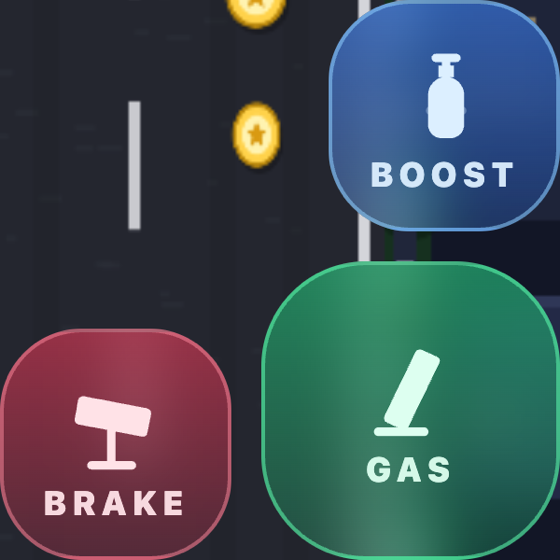
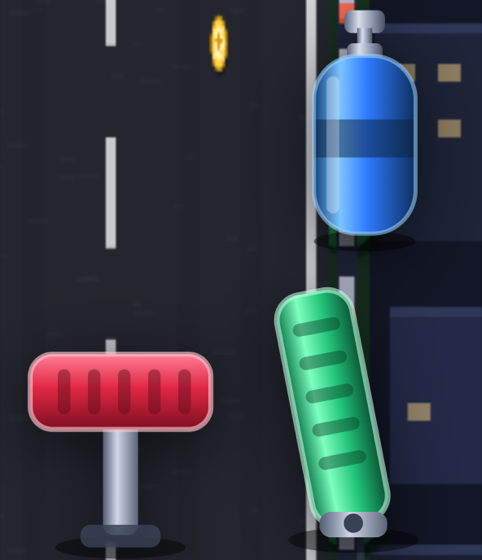
Drop the button boxes so the pedal itself is the control
The gas, brake and boost controls were icons sitting inside tinted
rounded boxes, which read as UI tiles rather than car parts. Remove the
boxes entirely and draw the parts themselves, so pressing one feels like
pressing the real thing:

- accelerator  ribbed treadle on a hinge pin, leaning back at rest
- brake        ribbed rubber pad on a chrome arm and floor plate
- boost        nitrous bottle with valve, neck and label band

Each is built from gradients and a contact shadow rather than a flat
fill, and the labels are gone — the shapes carry the meaning now, and
the menu already lists what the controls are. Steering keeps its frame,
since an arrow is a UI symbol rather than a physical part.

Pressing moves each part the way the real one moves: the accelerator
flattens on its hinge, the brake pad sinks, the bottle scales in, with a
coloured glow for confirmation at a glance.

Two things fixed along the way. The resting lean now lives in CSS rather
than on the SVG element, because a CSS transform replaces the element's
transform attribute outright and the pedal jumped to a different pivot
the moment it was pressed. The accelerator's viewBox was also too narrow
for its lean, leaving the art 6px from the screen edge; it now leans
inward with 42px of clearance.

Boost widths raised at the two small-screen breakpoints so every touch
target stays at or above 44px — it was 42px at 320px wide. Verified on
iPhone 13, iPhone SE (320px), Pixel 7 and iPad: no overflow, all
[…]

diff --git a/src/style.css b/src/style.css
@@ -180,10 +180,13 @@ html, body {
    without the hand moving. Boost already forces acceleration on its own, so a
    single thumb never needs to hold two pedals at once. */
 #touch-controls {
-  --tc-dir: 76px;   /* steering buttons */
-  --tc-gas: 92px;   /* primary pedal, thumb rests here */
-  --tc-aux: 70px;   /* brake and boost */
-  --tc-gap: 10px;
+  --tc-dir: 76px;     /* steering buttons */
+  --tc-gas-w: 84px;   /* accelerator: tall treadle, thumb rests here */
+  --tc-gas-h: 104px;
+  --tc-brake-w: 84px; /* brake: wide pad */
+  --tc-brake-h: 84px;
+  --tc-boost-w: 54px; /* nitrous bottle */
+  --tc-boost-h: 90px;
 
   position: absolute;
   left: 0; right: 0;
@@ -201,98 +204,83 @@ html, body {
 
 .tc-pedals {
   display: grid;
-  grid-template-columns: var(--tc-aux) var(--tc-gas);
-  grid-template-rows: var(--tc-aux) var(--tc-gas);
-  gap: var(--tc-gap);
+  grid-template-columns: var(--tc-brake-w) var(--tc-gas-w);
+  grid-template-rows: var(--tc-boost-h) var(--tc-gas-h);
+  column-gap: 2px;
+  row-gap: 2px;
   align-items: end;
-  justify-items: end;
+  justify-items: center;
 }
 .tc-boost { grid-area: 1 / 2; }
 .tc-brake { grid-area: 2 / 1; }
 .tc-gas   { grid-area: 2 / 2; }
 
+/* Steering keeps a light frame so it reads as a control surface. The pedals
+   deliberately have none — the part itself is the button. */
 .tc {
   pointer-events: auto;
   appearance: none;
-  border: 1px solid rgba(255, 255, 255, 0.22);
-  background: rgba(14, 18, 38, 0.52);
-  backdrop-filter: blur(8px);
+  border: none;
+  background: none;
   color: var(--ink);
   font: inherit;
-  font-weight: 900;
   cursor: pointer;
   display: flex;
-  flex-direction: column;
   align-items: center;
   justify-content: center;
-  gap: 1px;
   padding: 0;
-  transition: transform 0.08s ease, background 0.08s ease, box-shadow 0.08s ease;
   touch-action: none;
 }
-.tc span { font-size: 10px; letter-spacing: 1.2px; line-height: 1; opacity: 0.95; }
-.tc svg {
-  width: 33px; height: 33px;
+
+.tc-dir {
+  width: var(--tc-dir); height: var(--tc-dir);
+  border-radius: 24px;
+  border: 1px solid rgba(255, 255, 255, 0.2);
+  background: rgba(14, 18, 38, 0.5);
+  backdrop-filter: blur(8px);
+  transition: transform 0.08s ease, background 0.08s ease;
+}
+.tc-dir svg {
+  width: 38px; height: 38px;
   fill: none; stroke: currentColor;
-  stroke-width: 2.4; stroke-linecap: round; stroke-linejoin: round;
+  stroke-width: 2.8; stroke-linecap: round; stroke-linejoin: round;
 }
-/* Icon parts: solid pads/bodies read as real objects at thumb size, thin
-   strokes carry the hinge, arm and floor that identify each pedal. */
-.tc svg .ic-solid { fill: currentColor; stroke: none; }
-.tc svg .ic-line { fill: none; stroke: currentColor; stroke-width: 1.9; }
-/* Filled pad with a matching stroke, so the corners round off naturally */
-.tc svg .ic-pad { fill: currentColor; stroke: currentColor; stroke-width: 2.1; stroke-linejoin: round; }
-/* Cut-through band on the nitrous bottle — punched out in the button colour */
-.tc svg .ic-cut { fill: none; stroke: currentColor; stroke-width: 1.8; opacity: 0.32; }
+.tc-dir.active { transform: scale(0.93); background: rgba(255, 255, 255, 0.3); }
 
-/* Steering */
-.tc-dir { width: var(--tc-dir); height: var(--tc-dir); border-radius: 24px; }
-.tc-dir svg { width: 38px; height: 38px; stroke-width: 2.8; }
+/* ---- Pedals ---- */
+.tc-gas   { width: var(--tc-gas-w);   height: var(--tc-gas-h); }
+.tc-brake { width: var(--tc-brake-w); height: var(--tc-brake-h); align-items: flex-end; }
+.tc-boost { width: var(--tc-boost-w); height: var(--tc-boost-h); }
 
-/* Pedals — each colour-coded to what it does */
-.tc-gas {
-  width: var(--tc-gas); height: var(--tc-gas);
-  border-radius: 28px;
-  background: linear-gradient(180deg, rgba(34, 195, 122, 0.6), rgba(34, 195, 122, 0.26));
-  border-color: rgba(94, 255, 176, 0.55);
-  color: #ddfff0;
-}
-.tc-gas svg { width: 38px; height: 38px; }
-
-.tc-brake {
-  width: var(--tc-aux); height: var(--tc-aux);
-  border-radius: 22px;
-  background: linear-gradient(180deg, rgba(255, 59, 92, 0.52), rgba(255, 59, 92, 0.22));
-  border-color: rgba(255, 138, 158, 0.5);
-  color: #ffe2e7;
+.tc-gas svg, .tc-brake svg, .tc-boost svg {
+  width: 100%; height: 100%;
+  overflow: visible;
+  /* Grounds the part against the road without drawing a container */
+  filter: drop-shadow(0 4px 10px rgba(0, 0, 0, 0.6));
+  transition: filter 0.09s ease;
 }
 
-.tc-boost {
-  width: var(--tc-aux); height: var(--tc-aux);
-  border-radius: 22px;
-  background: linear-gradient(180deg, rgba(47, 123, 255, 0.55), rgba(47, 123, 255, 0.24));
-  border-color: rgba(143, 208, 255, 0.55);
-  color: #dcefff;
-}
+/* The contact shadow on the floor, drawn inside each SVG */
+.pd-shadow { fill: #000; opacity: 0.45; }
 
-/* Pressed states */
-.tc.active { transform: scale(0.93); }
-.tc-dir.active { background: rgba(255, 255, 255, 0.3); }
-.tc-gas.active {
-  background: linear-gradient(180deg, #5effb0, #22c37a);
-  color: #04291a;
-  box-shadow: 0 0 22px rgba(94, 255, 176, 0.5);
-}
-.tc-brake.active {
-  background: linear-gradient(180deg, #ff8a9e, #ff3b5c);
-  color: #2b0410;
-  box-shadow: 0 0 22px rgba(255, 90, 120, 0.5);
-}
-.tc-boost.active {
-  background: linear-gradient(180deg, #8fd0ff, #2f7bff);
-  color: #041024;
-  box-shadow: 0 0 22px rgba(120, 190, 255, 0.55);
-}
+/* The pedal's resting lean lives here rather than on the SVG element, because
+   a CSS transform replaces the element's transform attribute outright — mixing
+   the two makes the pedal jump to a different pivot the moment it is pressed.
+   Pressing then flattens the lean, the way a real accelerator goes down. */
+.pd-pad { transition: transform 0.09s ease; }
+
+.tc-gas .pd-pad { transform: rotate(-11deg); transform-origin: 45% 88%; }
+.tc-gas.active .pd-pad { transform: rotate(-3.5deg) translateY(2px) scaleY(0.97); }
+
+.tc-brake .pd-pad { transform-origin: 50% 100%; }
+.tc-brake.active .pd-pad { transform: translateY(7px) scaleY(0.94); }
+
+.tc-boost svg { transition: transform 0.09s ease, filter 0.09s ease; }
+.tc-boost.active svg { transform: scale(0.95); }
+
+.tc-gas.active svg   { filter: drop-shadow(0 2px 5px rgba(0, 0, 0, 0.65)) drop-shadow(0 0 16px rgba(94, 255, 176, 0.85)); }
+.tc-brake.active svg { filter: drop-shadow(0 2px 5px rgba(0, 0, 0, 0.65)) drop-shadow(0 0 16px rgba(255, 90, 120, 0.85)); }
+.tc-boost.active svg { filter: drop-shadow(0 2px 5px rgba(0, 0, 0, 0.65)) drop-shadow(0 0 18px rgba(120, 190, 255, 0.9)); }
 
 /* ---------- Pause button ---------- */
 .icon-btn {
@@ -315,20 +303,27 @@ html, body {
 
 /* ---------- Small screens / landscape ---------- */
 @media (max-width: 400px) {
-  #touch-controls { --tc-dir: 66px; --tc-gas: 80px; --tc-aux: 62px; --tc-gap: 8px; }
+  #touch-controls {
+    --tc-dir: 66px;
+    --tc-gas-w: 72px; --tc-gas-h: 92px;
+    --tc-brake-w: 74px; --tc-brake-h: 74px;
+    --tc-boost-w: 52px; --tc-boost-h: 78px;
+  }
   .tc-steer { gap: 9px; }
-  .tc svg { width: 29px; height: 29px; }
   .tc-dir svg { width: 32px; height: 32px; }
-  .tc span { font-size: 9px; }
 }
 
 @media (max-width: 340px) {
   .panel { padding: 20px 16px; gap: 11px; }
-  #touch-controls { --tc-dir: 58px; --tc-gas: 70px; --tc-aux: 55px; --tc-gap: 7px; padding: 0 8px; }
+  #touch-controls {
+    --tc-dir: 58px;
+    --tc-gas-w: 62px; --tc-gas-h: 80px;
+    --tc-brake-w: 64px; --tc-brake-h: 66px;
+    --tc-boost-w: 48px; --tc-boost-h: 70px;
+    padding: 0 8px;
+  }
   .tc-steer { gap: 7px; }
-  .tc svg { width: 25px; height: 25px; }
   .tc-dir svg { width: 28px; height: 28px; }
-  .tc span { font-size: 8px; letter-spacing: 0.6px; }
   .sb-value { font-size: 36px; }
 }
 
@@ -342,6 +337,11 @@ html, body {
   .btn { padding: 11px 16px; min-height: 42px; }
   .btn-primary { font-size: 17px; padding: 12px 16px; }
   .sb-value { font-size: 32px; }
-  #touch-controls { bottom: 10px; --tc-dir: 62px; --tc-gas: 72px; --tc-aux: 56px; --tc-gap: 8px; }
-  .tc span { font-size: 9px; }
+  #touch-controls {
+    bottom: 10px;
+    --tc-dir: 62px;
+    --tc-gas-w: 66px; --tc-gas-h: 84px;
+    --tc-brake-w: 68px; --tc-brake-h: 68px;
+    --tc-boost-w: 48px; --tc-boost-h: 74px;
+  }
 }

diff --git a/index.html b/index.html
@@ -87,31 +87,99 @@
         </div>
 
         <div class="tc-pedals">
+          <!-- No container boxes: the pedal itself is the control, so pressing
+               it should feel like pressing the real part. -->
+
           <button class="tc tc-boost" data-ctl="nitro" aria-label="Boost">
-            <svg viewBox="0 0 24 24" aria-hidden="true">
-              <!-- nitrous bottle: valve, neck, cylinder body -->
-              <path class="ic-line" d="M9.7 2.9h4.6M12 3.1v1.7"/>
-              <path class="ic-solid" d="M10.3 4.6h3.4v2.6h-3.4z"/>
-              <path class="ic-solid" d="M8 11.1a4 4 0 0 1 8 0v6.6a3 3 0 0 1-3 3h-2a3 3 0 0 1-3-3z"/>
-              <path class="ic-cut" d="M8.4 14.6h7.2"/>
+            <svg viewBox="0 0 56 100" aria-hidden="true">
+              <defs>
+                <linearGradient id="nosBody" x1="0" x2="1" y1="0" y2="0">
+                  <stop offset="0%" stop-color="#11427f"/>
+                  <stop offset="26%" stop-color="#7cc3ff"/>
+                  <stop offset="52%" stop-color="#2f7bff"/>
+                  <stop offset="100%" stop-color="#0d2f5e"/>
+                </linearGradient>
+                <linearGradient id="nosSteel" x1="0" x2="1" y1="0" y2="0">
+                  <stop offset="0%" stop-color="#5b657e"/>
+                  <stop offset="35%" stop-color="#d7deec"/>
+                  <stop offset="70%" stop-color="#8b94aa"/>
+                  <stop offset="100%" stop-color="#495166"/>
+                </linearGradient>
+              </defs>
+              <ellipse class="pd-shadow" cx="28" cy="95" rx="20" ry="4"/>
+              <rect x="20" y="4" width="16" height="9" rx="3" fill="url(#nosSteel)"/>
+              <rect x="25" y="11" width="6" height="8" fill="url(#nosSteel)"/>
+              <rect x="21" y="17" width="14" height="7" rx="2.5" fill="url(#nosSteel)"/>
+              <rect x="8" y="22" width="40" height="70" rx="17" fill="url(#nosBody)"/>
+              <rect x="8" y="47" width="40" height="15" fill="#0b1f3d" opacity=".5"/>
+              <rect x="13" y="30" width="5" height="54" rx="2.5" fill="#ffffff" opacity=".3"/>
+              <rect x="8" y="22" width="40" height="70" rx="17" fill="none" stroke="#9ed4ff" stroke-width="1.6" opacity=".55"/>
             </svg>
-            <span>BOOST</span>
           </button>
+
           <button class="tc tc-brake" data-ctl="brake" aria-label="Brake">
-            <svg viewBox="0 0 24 24" aria-hidden="true">
-              <!-- brake pedal: wide rubber pad on a short arm -->
-              <path class="ic-pad" d="M4.3 6.1 18.4 8.8 17.6 13 3.5 10.3Z"/>
-              <path class="ic-line" d="M10.6 11.6v8.1M6.2 20.4h9"/>
+            <svg viewBox="0 0 84 96" aria-hidden="true">
+              <defs>
+                <linearGradient id="brkPad" x1="0" x2="0" y1="0" y2="1">
+                  <stop offset="0%" stop-color="#ff7d94"/>
+                  <stop offset="45%" stop-color="#e02744"/>
+                  <stop offset="100%" stop-color="#7d0f20"/>
+                </linearGradient>
+                <linearGradient id="brkArm" x1="0" x2="1" y1="0" y2="0">
+                  <stop offset="0%" stop-color="#525c73"/>
+                  <stop offset="40%" stop-color="#cfd7e6"/>
+                  <stop offset="100%" stop-color="#5a6379"/>
+                </linearGradient>
+              </defs>
+              <ellipse class="pd-shadow" cx="42" cy="91" rx="26" ry="4.5"/>
+              <rect x="35" y="40" width="14" height="46" rx="4" fill="url(#brkArm)"/>
+              <rect x="26" y="82" width="32" height="9" rx="4" fill="#394154" opacity=".85"/>
+              <g class="pd-pad">
+                <rect x="6" y="14" width="72" height="30" rx="9" fill="url(#brkPad)"/>
+                <rect x="6" y="14" width="72" height="30" rx="9" fill="none" stroke="#ffc2cd" stroke-width="2" opacity=".65"/>
+                <g fill="#5c0c18" opacity=".45">
+                  <rect x="17" y="20" width="5" height="18" rx="2.5"/>
+                  <rect x="29" y="20" width="5" height="18" rx="2.5"/>
+                  <rect x="41" y="20" width="5" height="18" rx="2.5"/>
+                  <rect x="53" y="20" width="5" height="18" rx="2.5"/>
+                  <rect x="65" y="20" width="5" height="18" rx="2.5"/>
+                </g>
+              </g>
             </svg>
-            <span>BRAKE</span>
           </button>
+
           <button class="tc tc-gas" data-ctl="accelerate" aria-label="Accelerate">
-            <svg viewBox="0 0 24 24" aria-hidden="true">
-              <!-- accelerator: long narrow treadle hinged at the floor -->
-              <path class="ic-pad" d="M13.6 3.2 17 4.7 10.1 18.9 6.7 17.4Z"/>
-              <path class="ic-line" d="M4.4 20.4h10.2"/>
+            <!-- viewBox is wider than the pedal so the 13deg lean has room and
+                 never clips against the screen edge -->
+            <svg viewBox="0 0 78 106" aria-hidden="true">
+              <defs>
+                <linearGradient id="gasPad" x1="0" x2="1" y1="0" y2="0">
+                  <stop offset="0%" stop-color="#0f7a4c"/>
+                  <stop offset="30%" stop-color="#7dffc0"/>
+                  <stop offset="62%" stop-color="#22c37a"/>
+                  <stop offset="100%" stop-color="#0a5233"/>
+                </linearGradient>
+                <linearGradient id="gasArm" x1="0" x2="1" y1="0" y2="0">
+                  <stop offset="0%" stop-color="#525c73"/>
+                  <stop offset="45%" stop-color="#cfd7e6"/>
+                  <stop offset="100%" stop-color="#5a6379"/>
+                </linearGradient>
+              </defs>
+              <ellipse class="pd-shadow" cx="35" cy="99" rx="23" ry="4.5"/>
+              <g class="pd-pad">
+                <rect x="22" y="10" width="27" height="83" rx="9" fill="url(#gasPad)"/>
+                <rect x="22" y="10" width="27" height="83" rx="9" fill="none" stroke="#bfffe2" stroke-width="2" opacity=".6"/>
+                <g fill="#06381f" opacity=".42">
+                  <rect x="27" y="20" width="17" height="4.6" rx="2.3"/>
+                  <rect x="27" y="32" width="17" height="4.6" rx="2.3"/>
+                  <rect x="27" y="44" width="17" height="4.6" rx="2.3"/>
+                  <rect x="27" y="56" width="17" height="4.6" rx="2.3"/>
+                  <rect x="27" y="68" width="17" height="4.6" rx="2.3"/>
+                </g>
+              </g>
+              <rect x="23" y="89" width="24" height="9" rx="4" fill="url(#gasArm)"/>
+              <circle cx="35" cy="93" r="3.4" fill="#394154"/>
             </svg>
-            <span>GAS</span>
           </button>
         </div>
       </div>
